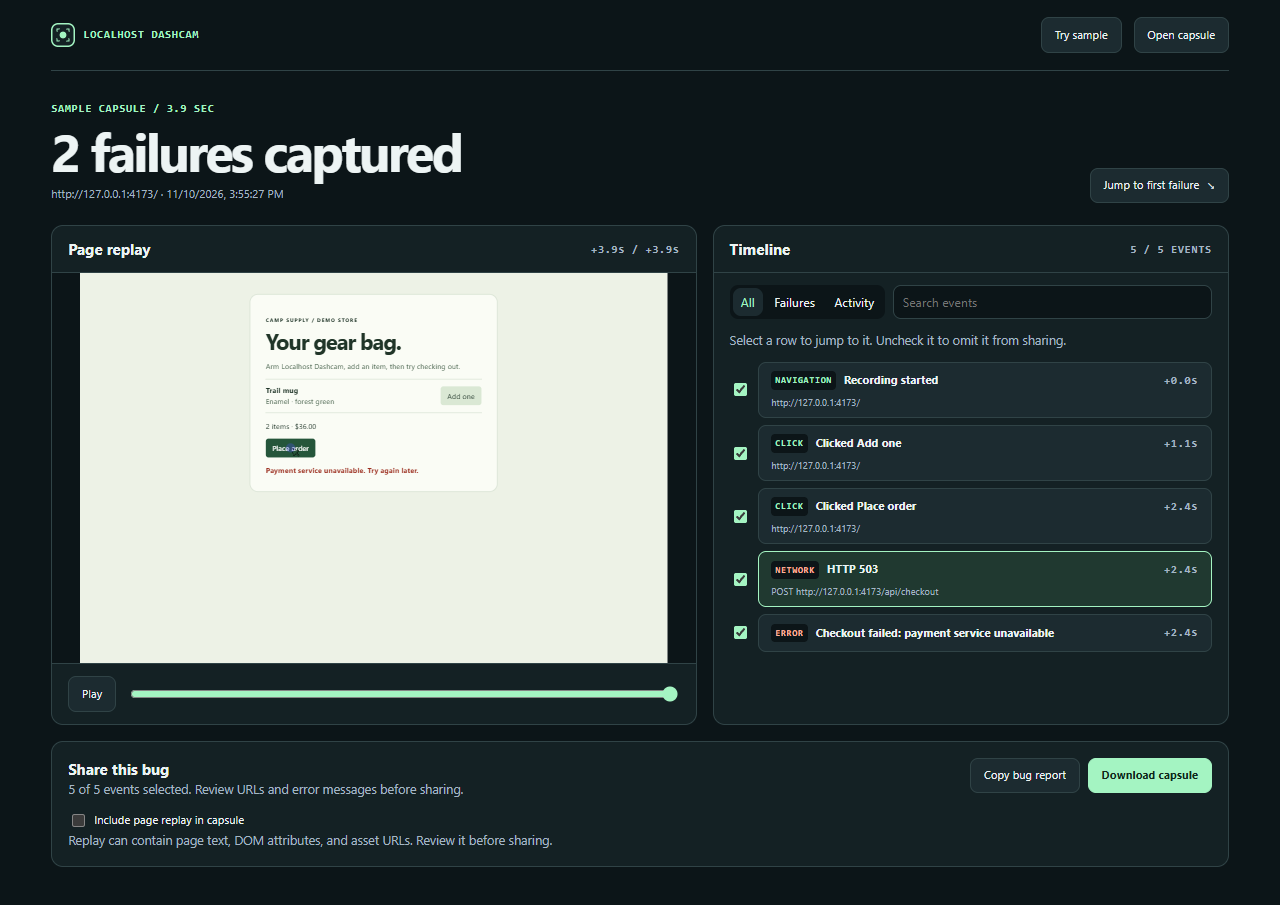
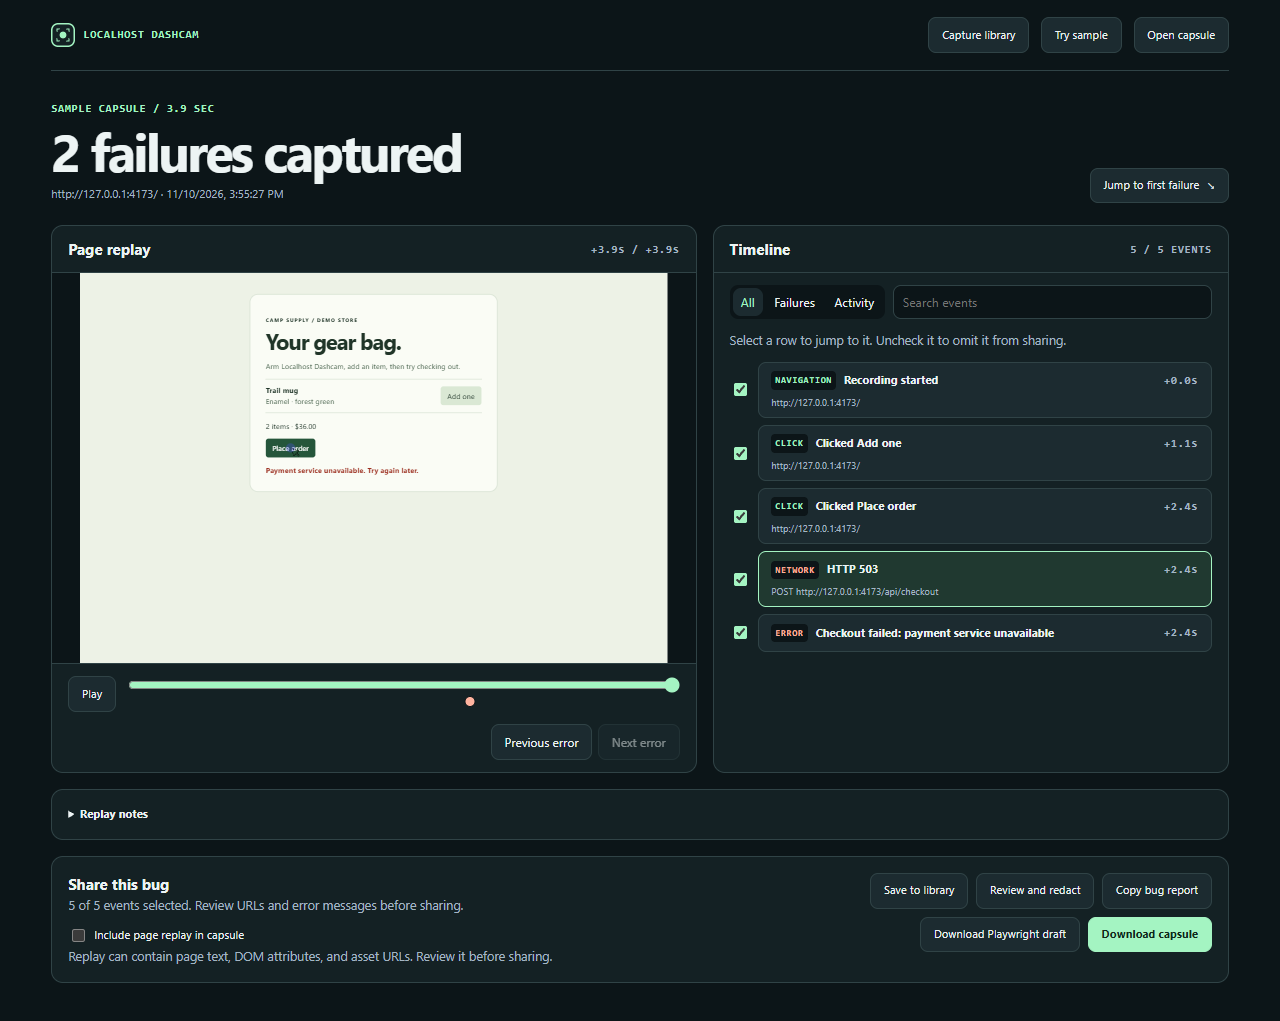
Package v0.3 with a downloadable extension and demo

diff --git a/extension/popup.html b/extension/popup.html
@@ -9,7 +9,7 @@
 <body class="popup">
   <header class="popup-brand">
     <span class="brand"><span class="logo"></span> LOCALHOST DASHCAM</span>
-    <span class="mono version">v0.2</span>
+    <span class="mono version">v0.3</span>
   </header>
   <main>
     <section id="popup-card" class="popup-card" data-state="checking">

diff --git a/scripts/package.py b/scripts/package.py
@@ -1,0 +1,29 @@
+"""Package the built extension and offline viewer for a GitHub release."""
+
+import argparse
+import json
+import shutil
+from pathlib import Path
+from zipfile import ZIP_DEFLATED, ZipFile
+
+
+parser = argparse.ArgumentParser(description=__doc__)
+parser.add_argument("output", type=Path, help="Directory for the release assets")
+args = parser.parse_args()
+
+root = Path(__file__).resolve().parent.parent
+dist = root / "dist"
+manifest = json.loads((dist / "manifest.json").read_text(encoding="utf-8"))
+version = json.loads((root / "package.json").read_text(encoding="utf-8"))["version"]
+if manifest["version"] != version:
+    parser.error("Run npm run build before packaging this version.")
+
+args.output.mkdir(parents=True, exist_ok=True)
+offline_viewer = dist / "capsule-viewer.html"
+shutil.copyfile(offline_viewer, args.output / offline_viewer.name)
+archive = args.output / f"localhost-dashcam-{version}.zip"
+with ZipFile(archive, "w", ZIP_DEFLATED) as bundle:
+    for path in sorted(dist.iterdir()):
+        if path.is_file() and path != offline_viewer:
+            bundle.write(path, path.name)
+print(archive)

diff --git a/README.md b/README.md
@@ -4,6 +4,10 @@
 
 ![Capsule viewer showing the demo checkout replay next to an HTTP 503 and console error](docs/checkout-capsule.png)
 
+[Download the Chrome extension ZIP](https://github.com/classicguy22/localhost-dashcam/releases/latest/download/localhost-dashcam-0.3.0.zip) · [Watch the 20-second demo](https://github.com/classicguy22/localhost-dashcam/releases/latest/download/dashcam-demo.mp4) · [Get the offline viewer](https://github.com/classicguy22/localhost-dashcam/releases/latest/download/capsule-viewer.html)
+
+Unzip the extension, open `chrome://extensions`, turn on **Developer mode**, and choose **Load unpacked**. Select the folder containing `manifest.json`. Use **Open capsule viewer → Try sample** to look around.
+
 ## Try the broken checkout
 
 You need Node.js 18+ and Chrome or another Chromium browser that supports Manifest V3 (Chrome 120+).
@@ -48,5 +52,7 @@ To share with someone who doesn't have Dashcam, send them `dist/capsule-viewer.h
 - Captures stay in browser memory until exported. Query strings and fragments are omitted from timeline URLs. Replay is off by default in exports and can include visible text, DOM attributes, and asset URLs. Form values are masked where rrweb supports masking. Mark sensitive DOM sections with `data-dashcam-private` and review a capsule before sharing it.
 
 The extension uses [rrweb](https://github.com/rrweb-io/rrweb) for DOM recording and replay, and [esbuild](https://esbuild.github.io/) for bundling.
+
+To recreate the release assets, run `npm run build` followed by `python scripts/package.py release` with Python 3.
 
 MIT
